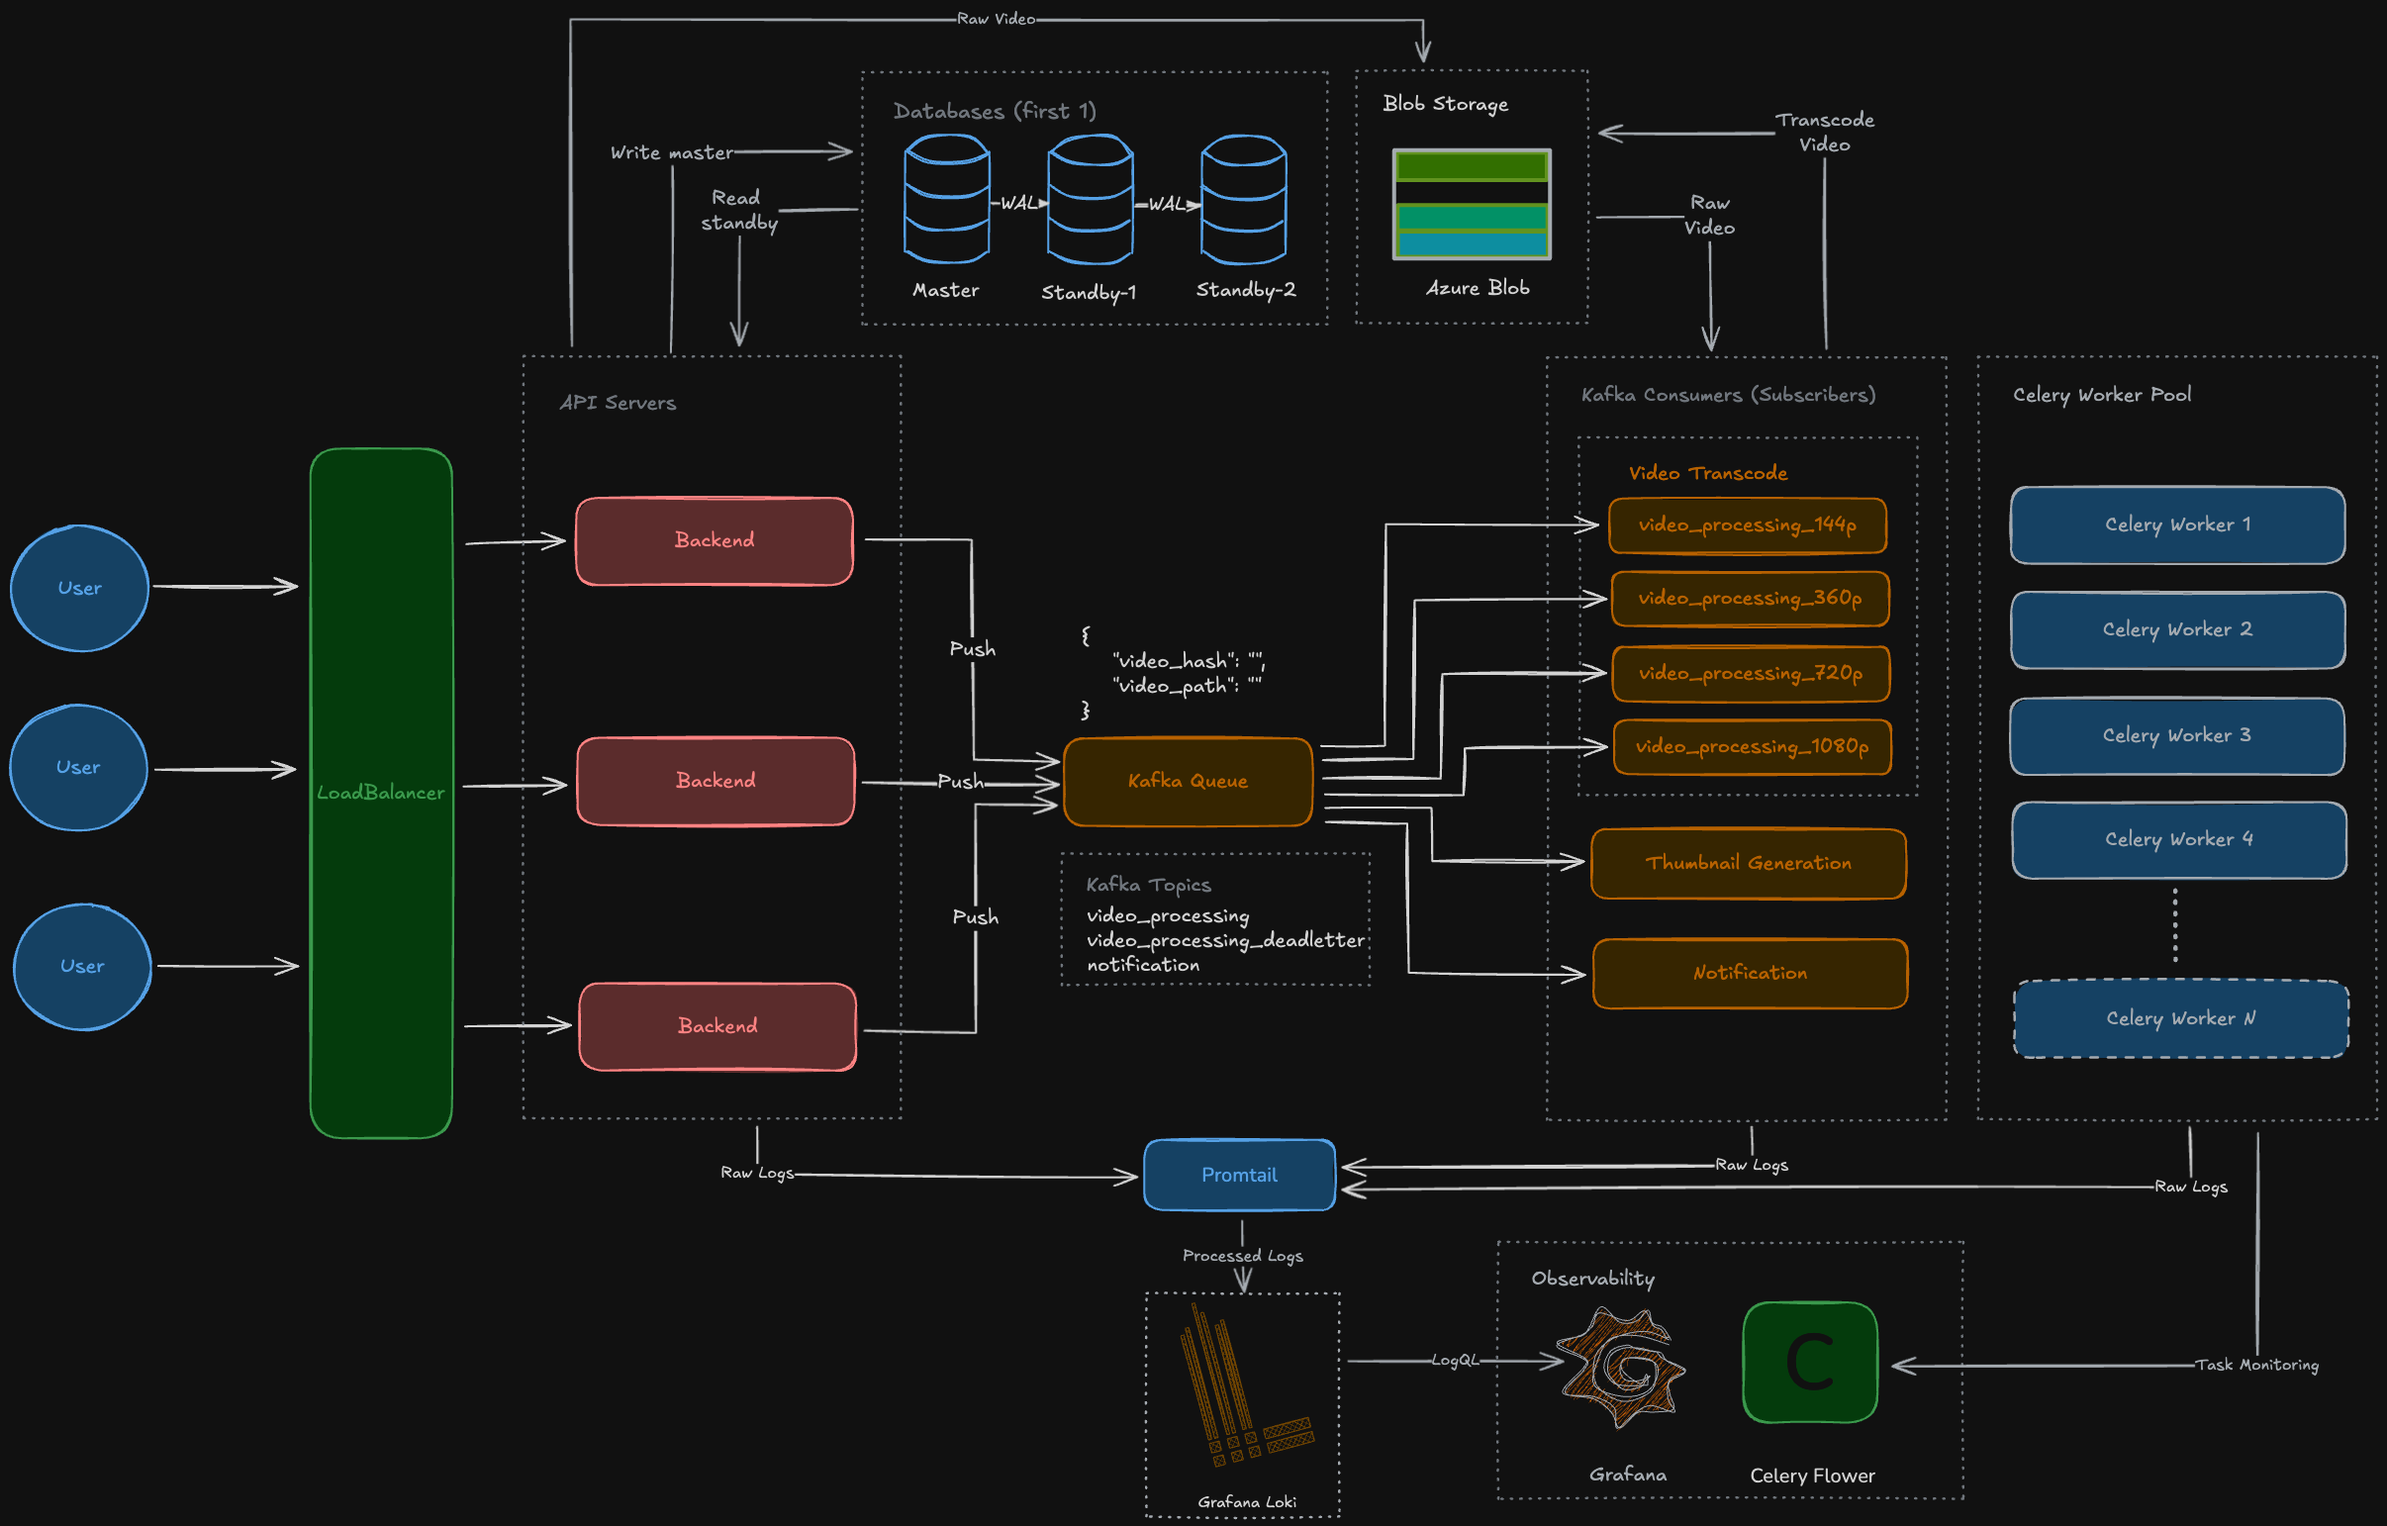
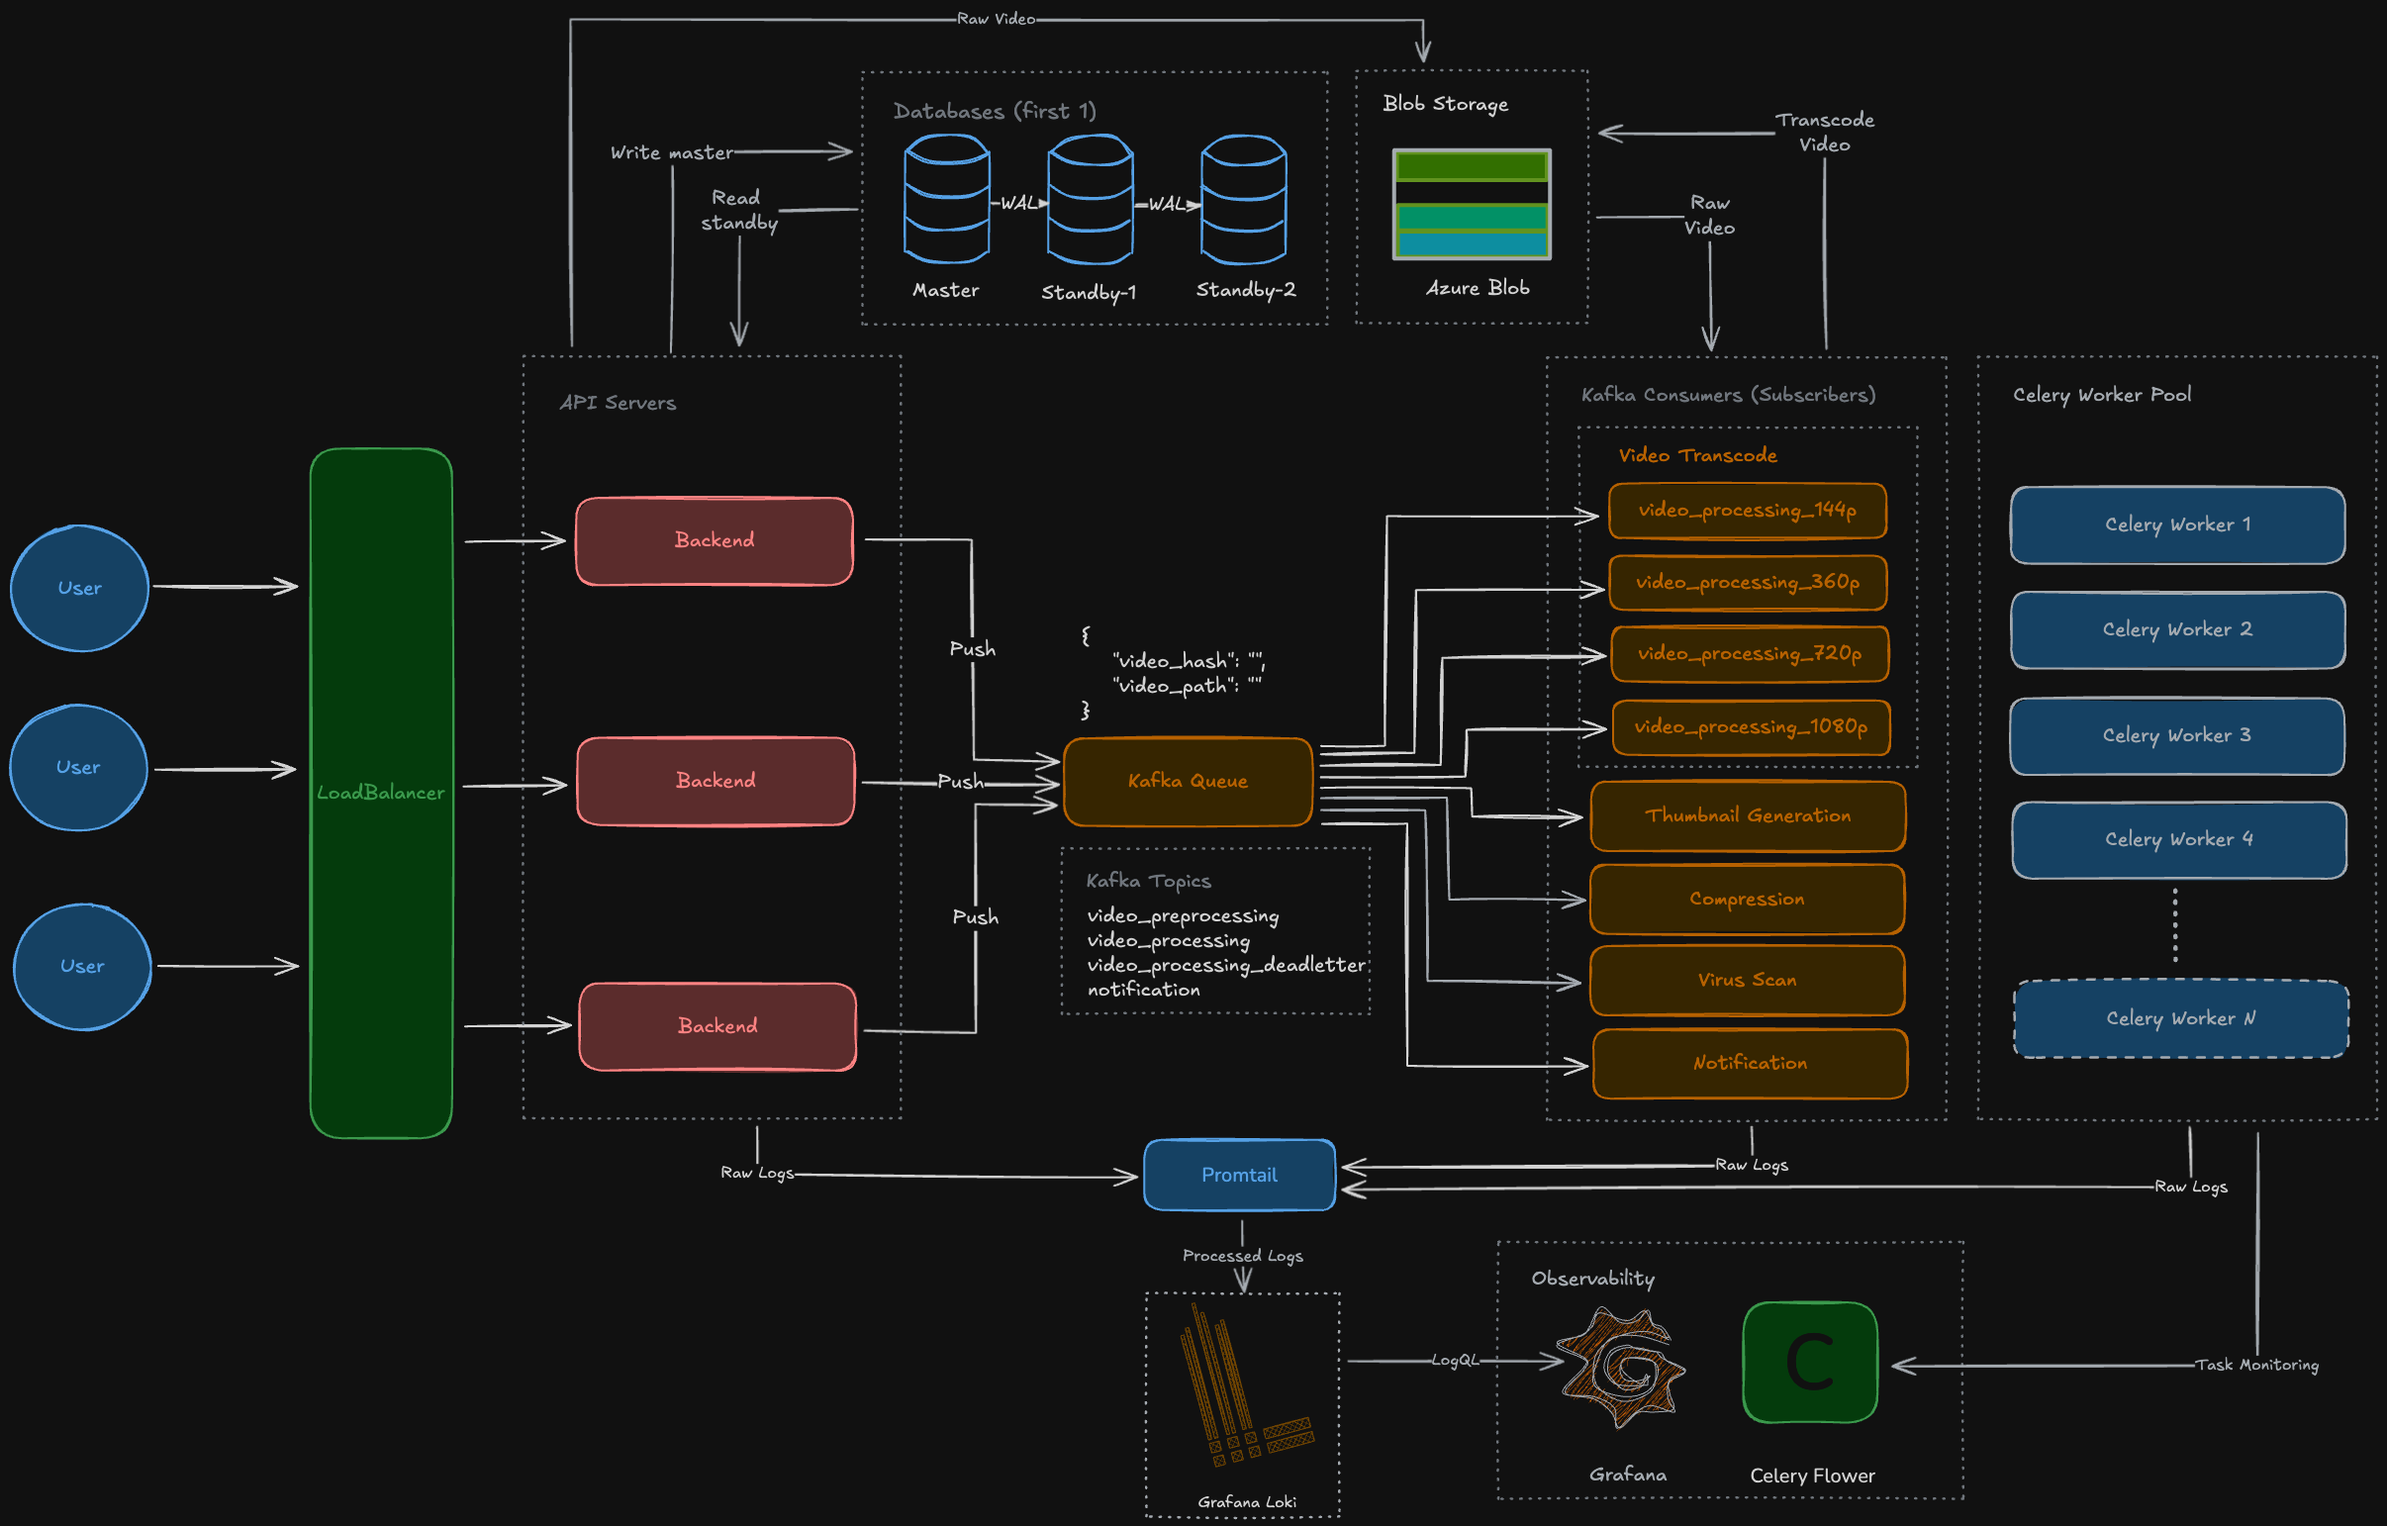
Fixed: Issue with ARM/low-power systems optimization
Issue with running the entire application on a single server is too
heavy, so lowering the queality of video processing and can be changes
for production.

Updated SystemDesign.png

Updated SystemDesign.png

Updated SystemDesign.png

Changed region(s): [[0.4353, 0.2802, 0.8085, 0.7471]]

diff --git a/server/app/tasks/video_tasks.py b/server/app/tasks/video_tasks.py
@@ -101,24 +101,9 @@ def create_preprocess_video_task(celery_app):
             logger.error("Missing required fields 'video_hash' or 'video_path'")
             raise ValueError("Missing required fields")
         
-        async def _run_with_fresh_engine():
-            """Wrapper to ensure fresh database engine for each task."""
-            from core.database import engine
-            
-            # Dispose existing engine connections
-            await engine.dispose()
-            
-            try:
-                # Run preprocessing
-                result = await _async_preprocess_video(video_hash, input_path)
-                return result
-            finally:
-                # Clean up engine after task
-                await engine.dispose()
-        
         try:
-            # Run the async preprocessing in a new event loop
-            result = asyncio.run(_run_with_fresh_engine())
+            # Run the async preprocessing in a new event loop (same pattern as process_video)
+            result = asyncio.run(_async_preprocess_video(video_hash, input_path))
             return result
         except Exception as e:
             logger.exception(f"Preprocessing failed for {video_hash}: {e}")
@@ -135,18 +120,30 @@ async def _async_preprocess_video(video_hash: str, video_path: str) -> dict:
     from utils.kafka import send_kafka_message
     from utils.virus_scan import scan_file_for_viruses
     from crud.video import update_video_details
-    from core.database import AsyncSessionLocal
+    from core.database import engine
+    from sqlalchemy.ext.asyncio import create_async_engine, AsyncSession
+    from sqlalchemy.orm import sessionmaker
+    import os
     
     logger.info(f"Starting preprocessing for video {video_hash}")
     
-    # Update status to preprocessing
-    async with AsyncSessionLocal() as db:
-        await update_video_details(video_hash, {"status": "preprocessing"}, db)
+    # Create fresh engine and session for this event loop
+    DATABASE_URL = os.getenv("DATABASE_URL")
+    local_engine = create_async_engine(DATABASE_URL, echo=True)
+    LocalSessionLocal = sessionmaker(
+        bind=local_engine,
+        class_=AsyncSession,
+        expire_on_commit=False
+    )
     
     temp_original = None
     temp_compressed = None
     
     try:
+        # Update status to preprocessing
+        async with LocalSessionLocal() as db:
+            await update_video_details(video_hash, {"status": "preprocessing"}, db)
+    
         # Step 1: Download video from Azure
         logger.info(f"Downloading video from Azure: {video_path}")
         temp_original = tempfile.NamedTemporaryFile(delete=False, suffix='.mp4')
@@ -163,7 +160,7 @@ async def _async_preprocess_video(video_hash: str, video_path: str) -> dict:
             logger.info(f"Extracted metadata: {metadata}")
             
             # Update database with metadata
-            async with AsyncSessionLocal() as db:
+            async with LocalSessionLocal() as db:
                 await update_video_details(video_hash, {
                     "width": metadata.get('width'),
                     "height": metadata.get('height'),
@@ -184,7 +181,7 @@ async def _async_preprocess_video(video_hash: str, video_path: str) -> dict:
             error_msg = f"Virus detected: {scan_result['threat']}"
             logger.error(error_msg)
             # Update status to failed with specific virus scan error
-            async with AsyncSessionLocal() as db:
+            async with LocalSessionLocal() as db:
                 await update_video_details(video_hash, {
                     "status": "failed",
                     "description": f"Virus scan failed: {error_msg}"
@@ -216,7 +213,7 @@ async def _async_preprocess_video(video_hash: str, video_path: str) -> dict:
         logger.info(f"Compressed video uploaded to {compressed_url}")
         
         # Step 6: Update video status to processing
-        async with AsyncSessionLocal() as db:
+        async with LocalSessionLocal() as db:
             await update_video_details(video_hash, {"status": "processing"}, db)
         
         # Step 7: Send Kafka message to video_processing topic for transcoding
@@ -252,6 +249,9 @@ async def _async_preprocess_video(video_hash: str, video_path: str) -> dict:
         if temp_compressed and os.path.exists(temp_compressed.name):
             os.unlink(temp_compressed.name)
             logger.info(f"Cleaned up temp compressed: {temp_compressed.name}")
+        
+        # Dispose engine
+        await local_engine.dispose()
 
 
 def create_process_profile_task(celery_app):

diff --git a/server/app/utils/ffmpeg_util.py b/server/app/utils/ffmpeg_util.py
@@ -188,11 +188,11 @@ def transcode_hls_profile(input_file, output_dir, profile: str):
     logging.info(f"Starting HLS transcoding for profile={profile} for {input_file} into {output_dir}")
 
     profiles = {
-        '144p': {'scale': '256:144', 'b:v': '200k', 'resolution': '256x144', 'preset': 'veryfast'},
-        '360p': {'scale': '640:360', 'b:v': '800k', 'resolution': '640x360', 'preset': 'veryfast'},
-        '480p': {'scale': '854:480', 'b:v': '1500k', 'resolution': '854x480', 'preset': 'fast'},
-        '720p': {'scale': '1280:720', 'b:v': '3000k', 'resolution': '1280x720', 'preset': 'fast'},
-        '1080p': {'scale': '1920:1080', 'b:v': '5000k', 'resolution': '1920x1080', 'preset': 'fast'},
+        '144p': {'scale': '256:144', 'b:v': '200k', 'resolution': '256x144', 'preset': 'ultrafast', 'fps': None},
+        '360p': {'scale': '640:360', 'b:v': '800k', 'resolution': '640x360', 'preset': 'ultrafast', 'fps': None},
+        '480p': {'scale': '854:480', 'b:v': '1200k', 'resolution': '854x480', 'preset': 'ultrafast', 'fps': None},
+        '720p': {'scale': '1280:720', 'b:v': '2000k', 'resolution': '1280x720', 'preset': 'ultrafast', 'fps': 30},
+        '1080p': {'scale': '1920:1080', 'b:v': '2500k', 'resolution': '1920x1080', 'preset': 'ultrafast', 'fps': 30},
     }
 
     if profile not in profiles:
@@ -208,28 +208,34 @@ def transcode_hls_profile(input_file, output_dir, profile: str):
     segment_pattern = os.path.join(profile_dir, 'segment_%03d.ts')
 
     try:
-        # Build ffmpeg command with optimized settings
+        # Build ffmpeg command with ARM-optimized settings
+        # Build video filter: scale + optional fps limit
+        vf_parts = [f"scale={info['scale']}"]
+        if info.get('fps'):
+            vf_parts.append(f"fps={info['fps']}")
+        vf_string = ','.join(vf_parts)
+        
+        output_options = {
+            'c:v': 'libx264',
+            'preset': info['preset'],
+            'b:v': info['b:v'],
+            'c:a': 'aac',
+            'b:a': '128k',
+            'threads': '0',
+            'movflags': '+faststart'
+        }
+        
         cmd = (
             ffmpeg
             .input(input_file)
             .output(
                 playlist_path,
-                vf=f"scale={info['scale']}",
+                vf=vf_string,
                 format='hls',
                 hls_time=6,
                 hls_playlist_type='vod',
                 hls_segment_filename=segment_pattern,
-                **{
-                    'c:v': 'libx264',
-                    'preset': info['preset'],
-                    'b:v': info['b:v'],
-                    'maxrate': info['b:v'],
-                    'bufsize': f"{int(info['b:v'][:-1]) * 2}k",
-                    'c:a': 'aac',
-                    'b:a': '128k',
-                    'threads': '0',
-                    'movflags': '+faststart'
-                }
+                **output_options
             )
             .overwrite_output()
             .compile()

diff --git a/server/app/celery_app.py b/server/app/celery_app.py
@@ -29,9 +29,9 @@ celery_app.conf.update(
     worker_prefetch_multiplier=1,  # Only fetch one task at a time to avoid blocking
     worker_max_tasks_per_child=10,  # Restart worker after 10 tasks to prevent memory leaks
     
-    # Task execution limits
-    task_soft_time_limit=1800,  # 30 minutes soft limit (allows cleanup)
-    task_time_limit=2100,  # 35 minutes hard limit
+    # Task execution limits - increased for ARM/low-power systems
+    task_soft_time_limit=6600,  # 110 minutes soft limit (allows cleanup)
+    task_time_limit=7200,  # 120 minutes hard limit (2 hours for slow ARM transcoding)
     task_acks_late=True,  # Only acknowledge task after completion
     task_reject_on_worker_lost=True,  # Requeue task if worker dies
     
